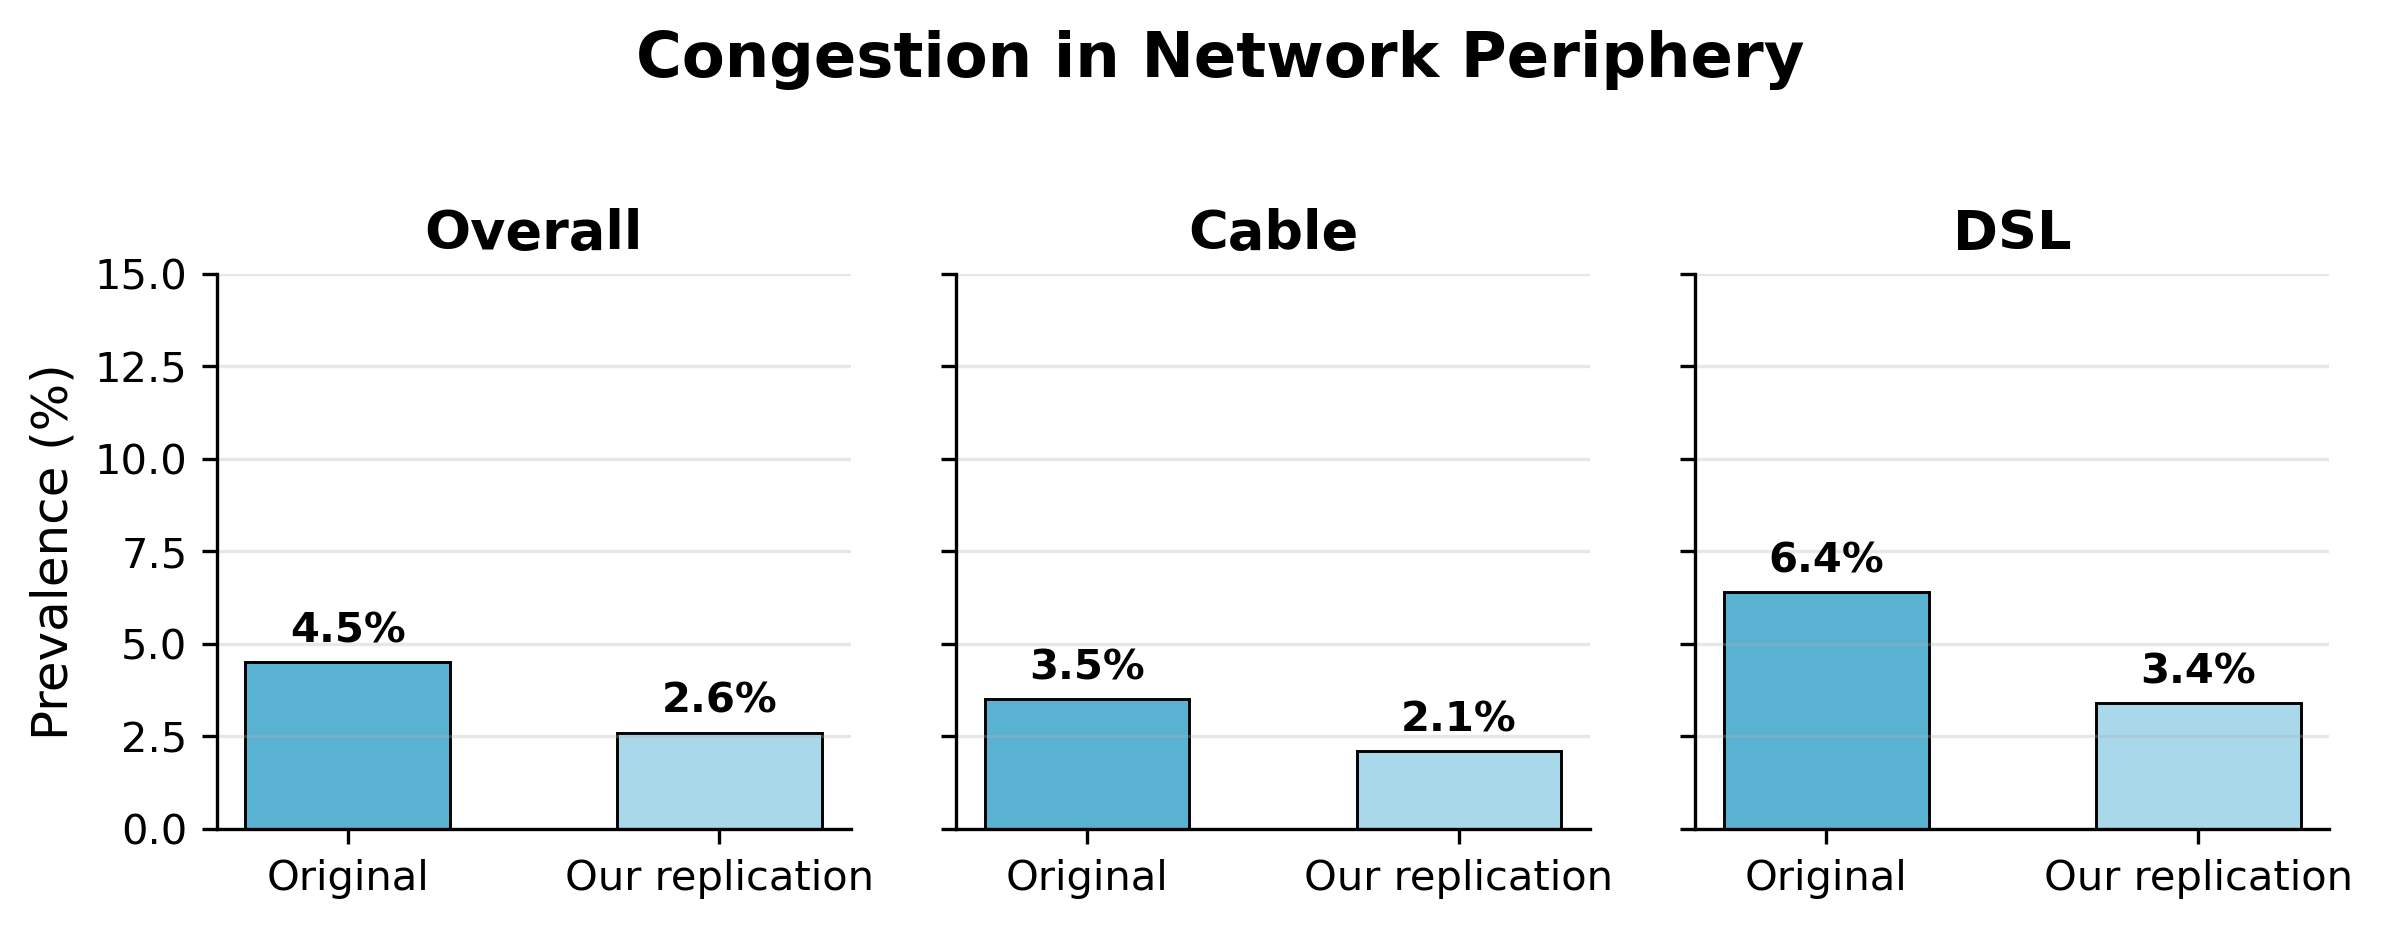
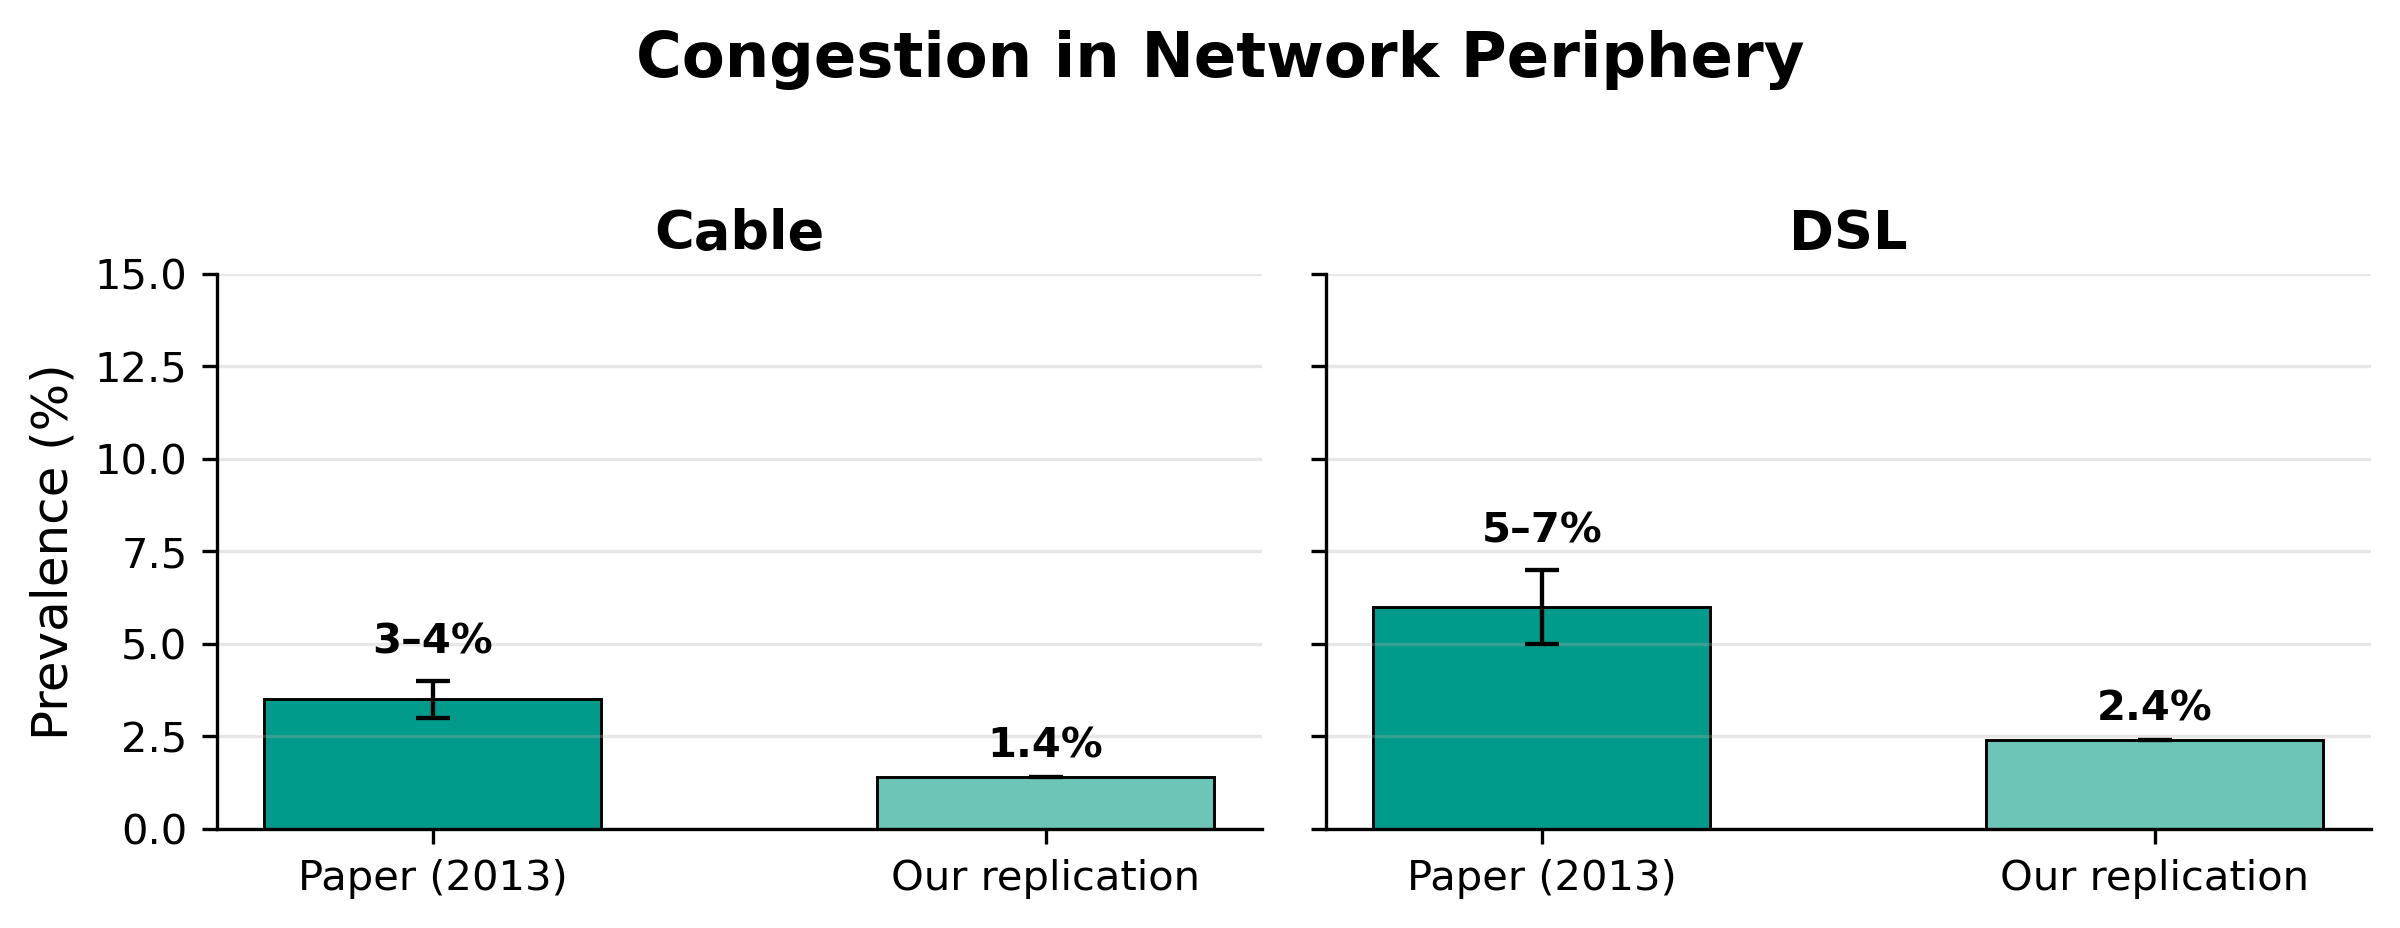
Regenerate RC/TIS bar charts from authoritative comparison CSV with paper ranges

diff --git a/output/plot_bars.py b/output/plot_bars.py
@@ -1,24 +1,25 @@
+import csv
 import matplotlib
 matplotlib.use("Agg")
 import matplotlib.pyplot as plt
 
-data = {
-    "RC_pct": {
-        "Original":       {"Overall": 21.3, "Cable": 26.7, "DSL": 11.5},
-        "Our replication": {"Overall": 17.2, "Cable": 24.2, "DSL": 7.1},
-    },
-    "TIS_pct": {
-        "Original":       {"Overall": 4.5, "Cable": 3.5, "DSL": 6.4},
-        "Our replication": {"Overall": 2.6, "Cable": 2.1, "DSL": 3.4},
-    },
+CSV = "/home/jovyan/work/project/output/compare/tables/comparison_by_tech.csv"
+
+# Paper (Genin & Splett 2013, March 2011) published ranges, from paper + ANALYSIS.md
+PAPER = {
+    "RC_pct": {"cable": (27, 32), "dsl": (9, 12)},
+    "TIS_pct": {"cable": (3, 4), "dsl": (5, 7)},
 }
 
-sources = ["Original", "Our replication"]
-techs = ["Overall", "Cable", "DSL"]
-color_maps = {
-    "RC_pct": ["#009b8a", "#6dc5b8"],
-    "TIS_pct": ["#59B2D1", "#a8d8ea"],
-}
+THEM = {"cable": "Cable", "dsl": "DSL"}
+
+def load_2011():
+    out = {"cable": {}, "dsl": {}}
+    with open(CSV) as f:
+        for row in csv.DictReader(f):
+            if row["year"] == "2011" and row["technology"] in out:
+                out[row["technology"]] = {"RC": float(row["RC%"]), "TIS": float(row["TIS%"])}
+    return out
 
 plt.rcParams.update({
     "font.family": "sans-serif",
@@ -32,22 +33,30 @@ plt.rcParams.update({
     "savefig.bbox": "tight",
 })
 
-for metric_key, title in [("RC_pct", "Recurrent Congestion"), ("TIS_pct", "Congestion in Network Periphery")]:
-    fig, axes = plt.subplots(1, 3, figsize=(8, 3), sharey=True)
-    bar_colors = color_maps[metric_key]
+def make(metric_key, title, ymax, data):
+    fig, axes = plt.subplots(1, 2, figsize=(8, 3), sharey=True)
+    colors = {"Paper (2013)": "#009b8a", "Our replication": "#6dc5b8"}
 
-    for ax, tech in zip(axes, techs):
-        vals = [data[metric_key][s][tech] for s in sources]
-        bars = ax.bar(sources, vals, color=bar_colors, edgecolor="black", linewidth=0.7, width=0.55)
+    for ax, tech in zip(axes, ["cable", "dsl"]):
+        lo, hi = PAPER[metric_key][tech]
+        ctr = (lo + hi) / 2
+        ours = data[tech][metric_key.split("_")[0]]
 
-        for bar, v in zip(bars, vals):
-            ax.text(bar.get_x() + bar.get_width() / 2, bar.get_height() + 0.3,
-                    f"{v:.1f}%", ha="center", va="bottom", fontsize=10, fontweight="bold")
+        bars = ax.bar(["Paper (2013)", "Our replication"], [ctr, ours],
+                      color=[colors["Paper (2013)"], colors["Our replication"]],
+                      edgecolor="black", linewidth=0.7, width=0.55,
+                      yerr=[[ctr - lo, 0], [hi - ctr, 0]], capsize=4, error_kw={"lw": 1.0})
 
-        ax.set_title(tech, fontweight="bold")
-        if tech == "Overall":
+        ax.errorbar(0, ctr, yerr=[[ctr - lo], [hi - ctr]], fmt="none", ecolor="black",
+                    capsize=4, lw=1.0)
+        ax.text(0, hi + 0.5, f"{lo:.0f}\u2013{hi:.0f}%", ha="center", va="bottom",
+                fontsize=10, fontweight="bold")
+        ax.text(1, ours + 0.3, f"{ours:.1f}%", ha="center", va="bottom",
+                fontsize=10, fontweight="bold")
+
+        ax.set_title(THEM[tech], fontweight="bold")
+        if tech == "cable":
             ax.set_ylabel("Prevalence (%)")
-        ymax = 35 if metric_key == "RC_pct" else 15
         ax.set_ylim(0, ymax)
         ax.spines["top"].set_visible(False)
         ax.spines["right"].set_visible(False)
@@ -55,7 +64,15 @@ for metric_key, title in [("RC_pct", "Recurrent Congestion"), ("TIS_pct", "Conge
 
     fig.suptitle(title, fontsize=15, fontweight="bold", y=1.02)
     fig.tight_layout()
-    fname = f"bar_{metric_key}.png"
-    fig.savefig(f"/home/jovyan/work/project/output/{fname}")
+    fname = f"/home/jovyan/work/project/output/bar_{metric_key}.png"
+    fig.savefig(fname)
     plt.close()
-    print(f"Saved {fname}")
+    print("Saved", fname)
+
+def main():
+    data = load_2011()
+    make("RC_pct", "Recurrent Congestion", 35, data)
+    make("TIS_pct", "Congestion in Network Periphery", 15, data)
+
+if __name__ == "__main__":
+    main()
